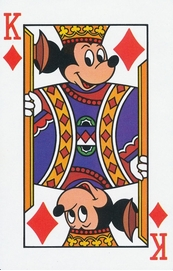
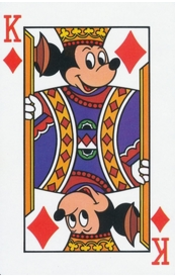
updated code again and corrected size of cards

Changed region(s): [[0.0, 0.0295, 0.9827, 0.9742], [0.6936, 0.7675, 0.7225, 0.797], [0.3179, 0.2362, 0.3468, 0.2657]]

diff --git a/memory_game/js/main.js b/memory_game/js/main.js
@@ -25,25 +25,29 @@ var cards = [
 //cardsInPlay
 var cardsInPlay = [];
 
-//flipCard
-var flipCard = function() {
-  var cardId = this.getAttribute('data-Id');
-  this.setAttribute('src', cards[cardId].cardImage);
-  if (cardsInPlay.length === 2 && cardsInPlay[0] === cardsInPlay[1]) {
-    cardsinPLay.push(cards[cardID].rank);
-    console.log("user flipped" + cards[cardID].rank);
-    console.log(cards[cardId].cardImage);
-    console.log(cards[cardId].suit);
-  }
-}
 //checkForMatch
-var checkForMatch = function() {
-    if (cardsInPlay[0] === cardsInPlay[1]) {
-      alert("you found a match");
-    }else{
-      alert("sorry try again");
+var checkForMatch = function () {
+  if (cardsInPlay[0] === cardsInPlay[1]) {
+    console.log("You found a match!");
+    alert("you found a match");
+  } else {
+    console.log("Sorry, try again.");
   }
-}
+};
+
+//flipCard
+var flipCard = function () {
+  cardId = this.getAttribute('data-id');
+  console.log(cardId);
+  cardsInPlay.push(cards[cardId].cards);
+  this.setAttribute('src', cards[cardId].cardImage);
+if (cardsInPlay.length === 2 && cardsInPlay[0] === cardsInPlay[1]) {
+//if (cardsInPlay.length === 2) {
+    checkForMatch ();
+//cardsInPlay = [];
+  }
+};
+
 //createBoard
 var createBoard = function() {
   for (var i = 0; i < cards.length; i ++) {

diff --git a/memory_game/INDEX.HTML b/memory_game/INDEX.HTML
@@ -23,13 +23,11 @@
     </a>
 
 <div id="game-board" class="board clearfix"></div>
-    <a href="#"Game>
-    </a>
+    <a href="#"Game></a>
 <footer>
     <copyright>Copyright 2018</copyright>
     <message>Created with &hearts; by <span class="name">GA</span>
 </footer>
-
   <script src="js/main.js"></script>
   </body>
 </html>
